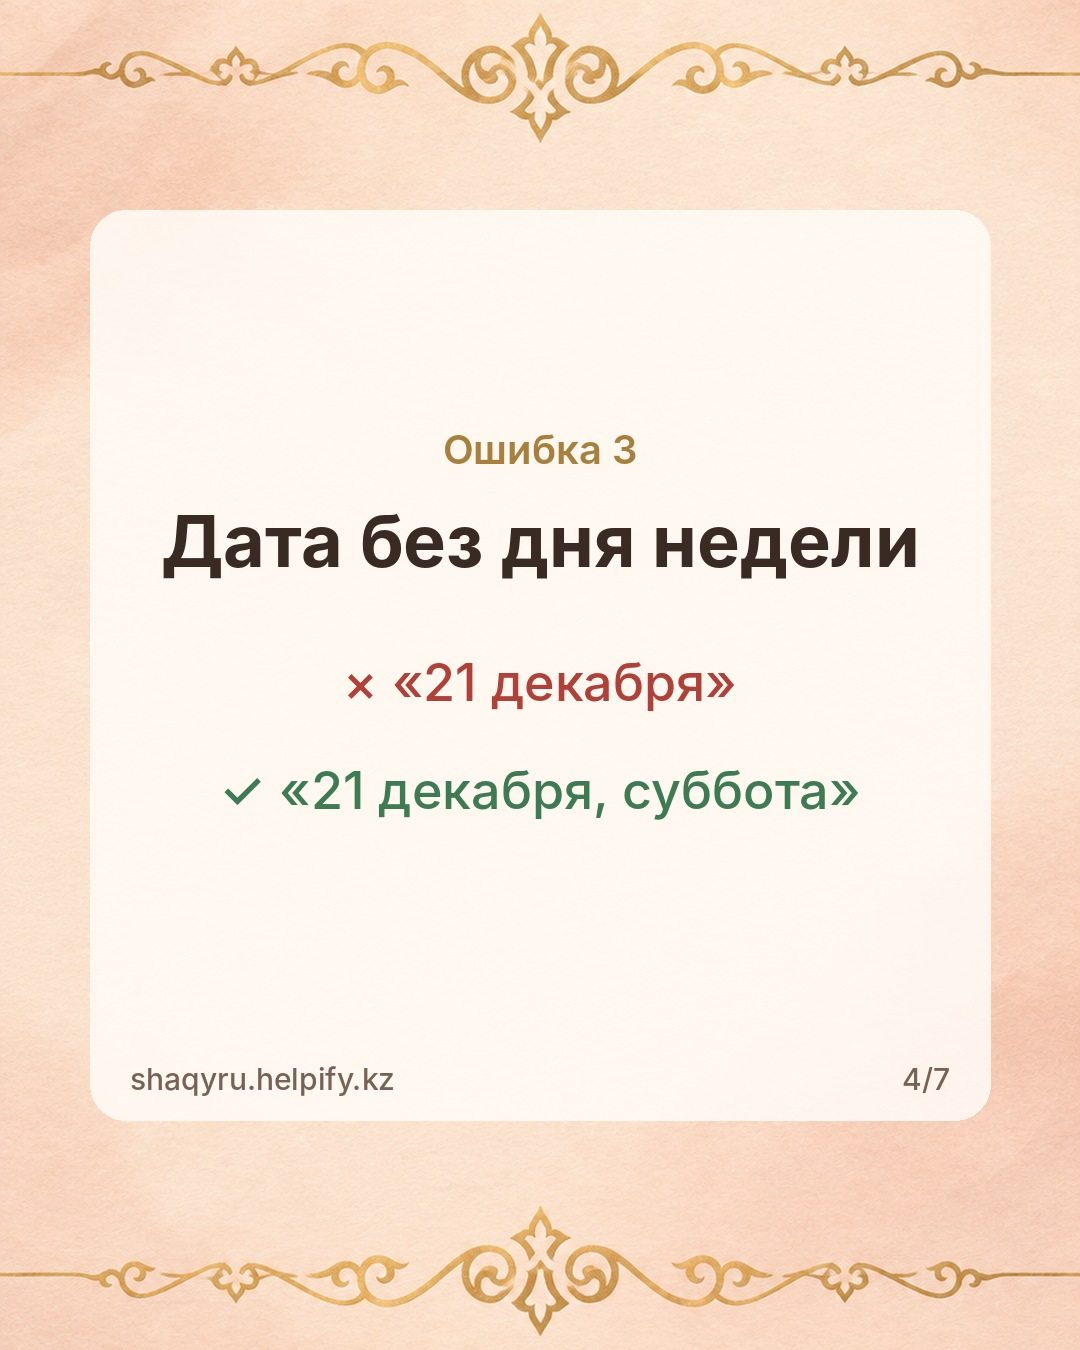
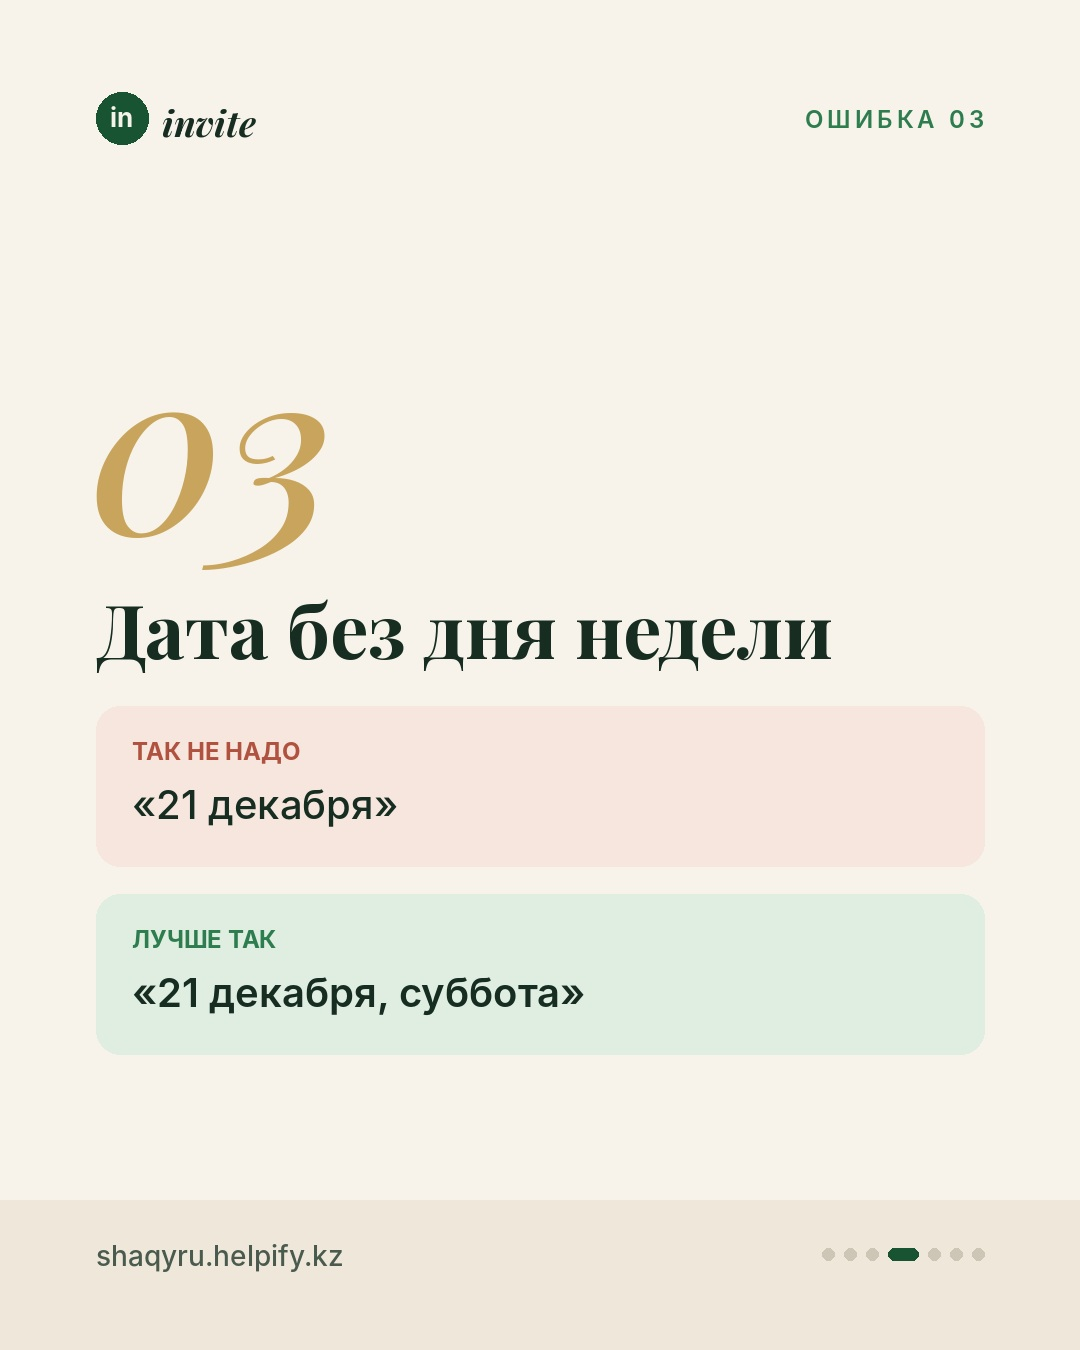
content: IG carousels in brand style (green/cream/gold, Playfair+Inter)
Claude-Session: https://claude.ai/code/session_01FxMCoqHYXWbbU2cENtnmo7

diff --git a/content/brand/make3.py b/content/brand/make3.py
@@ -1,0 +1,98 @@
+import sys
+sys.path.insert(0, '/home/claude/carousel')
+from brand import *
+
+OUT = '/home/claude/carousel/out3'
+TOP, BOT = 200, H - 170
+
+def centered(make_bg, n, total, dark, label, body, path):
+    probe = ImageDraw.Draw(Image.new('RGB', (W, H)))
+    h = body(probe, 0)
+    img = make_bg(); d = chrome(img, n, total, dark, label)
+    body(d, TOP + (BOT - TOP - h) / 2)
+    save(img, path)
+
+def box(d, y, label, s, fill, lc, weight):
+    f = it(40, weight)
+    lines = len(wrap(d, s, f, 800))
+    hgt = 74 + lines * 52 + 34
+    d.rounded_rectangle((96, y, W - 96, y + hgt), radius=24, fill=fill)
+    d.text((132, y + 30), label, font=it(24, 'Bold'), fill=lc)
+    text(d, (132, y + 74), s, f, INK, maxw=800, lh=1.3)
+    return y + hgt
+
+
+
+def cover(parts, sub, cta, n, total, label, path):
+    def body(d, y):
+        ornament(d, W // 2, y + 10, GOLD); y += 70
+        y = rich(d, (100, y), parts, maxw=880, align='center', lh=1.12) + 30
+        y = text(d, (150, y), sub, it(40, 'Regular'), (214, 226, 216), maxw=780, align='center', lh=1.4) + 60
+        f = it(34, 'SemiBold'); tw = d.textlength(cta, font=f); x = (W - tw) / 2
+        d.rounded_rectangle((x - 40, y, x + tw + 40, y + 84), radius=42, fill=CREAM)
+        d.text((x, y + 21), cta, font=f, fill=GREEN_D)
+        return y + 84
+    centered(bg_dark, n, total, True, label, body, path)
+
+
+def mistake(num, title, bad, good, n, total, path):
+    def body(d, y):
+        d.text((90, y - 40), num, font=pf(230, 500, True), fill=GOLD); y += 250
+        y = rich(d, (96, y), [(title, pf(76, 700), INK)], maxw=880) + 40
+        y = box(d, y, 'ТАК НЕ НАДО', bad, (246, 230, 222), RED, 'Medium') + 28
+        return box(d, y, 'ЛУЧШЕ ТАК', good, (224, 238, 226), GREEN_A, 'SemiBold')
+    centered(bg_light, n, total, False, 'ОШИБКА ' + num, body, path)
+
+
+def template(event, txt, n, total, path):
+    def body(d, y):
+        y = rich(d, (96, y), [(event, pf(92, 700), INK)], maxw=888)
+        d.line((96, y + 34, 260, y + 34), fill=GOLD, width=3); y += 100
+        d.text((78, y - 50), '«', font=pf(180, 600), fill=(226, 214, 186))
+        y = text(d, (130, y + 10), txt, pf(44, 500), INK, maxw=850, lh=1.45) + 40
+        d.text((130, y), 'Той иелері: [есімдер]', font=it(34, 'SemiBold'), fill=GREEN_A)
+        return y + 40
+    centered(bg_light, n, total, False, 'ДАЙЫН ҮЛГІ', body, path)
+
+
+def cta(parts, bullets, button, n, total, label, path):
+    def body(d, y):
+        y = rich(d, (100, y), parts, maxw=880, align='center', lh=1.12) + 50
+        for b in bullets:
+            d.ellipse((170, y + 6, 214, y + 50), fill=GOLD)
+            d.line((181, y + 28, 190, y + 37), fill=GREEN_D, width=5)
+            d.line((190, y + 37, 204, y + 19), fill=GREEN_D, width=5)
+            y = text(d, (240, y + 2), b, it(40, 'Medium'), CREAM, maxw=680, lh=1.3) + 26
+        y += 30
+        f = it(34, 'SemiBold'); tw = d.textlength(button, font=f); x = (W - tw) / 2
+        d.rounded_rectangle((x - 44, y, x + tw + 44, y + 88), radius=44, fill=GOLD)
+        d.text((x, y + 23), button, font=f, fill=GREEN_D)
+        return y + 88
+    centered(bg_dark, n, total, True, label, body, path)
+
+
+# ---------- карусель 1: 5 ошибок (RU) ----------
+T = 7; P = OUT + '/oshibki/slide{}.jpg'; L = 'ПРИГЛАШЕНИЯ'
+cover([('5 ошибок', pf(120, 800), CREAM), ('\n', pf(10), CREAM), ('в приглашении', pf(96, 500, True), GOLD_L)],
+      'из-за которых гости звонят вам прямо в день тоя', 'Проверьте свой текст  →', 1, T, L, P.format(1))
+mistake('01', 'Время «вечером»', '«Начало вечером»', '«Сбор гостей в 18:00, начало в 18:30»', 2, T, P.format(2))
+mistake('02', 'Ресторан без адреса', '«Ресторан Айсулу»', 'Название + адрес + метка в 2ГИС', 3, T, P.format(3))
+mistake('03', 'Дата без дня недели', '«21 декабря»', '«21 декабря, суббота»', 4, T, P.format(4))
+mistake('04', 'Нет контакта', 'Гость не знает, кому звонить', 'Номер той иесі или того, кто отвечает за гостей', 5, T, P.format(5))
+mistake('05', 'Не просите ответа', 'Сколько придёт — сюрприз', '«Подтвердите, пожалуйста, до 10 декабря»', 6, T, P.format(6))
+cta([('В шақыру всё это', pf(78, 700), CREAM), ('\n', pf(10), CREAM), ('уже есть', pf(78, 500, True), GOLD_L)],
+    ['Точное время и карта до зала', 'Кнопка «приду / не приду»', 'Список гостей для рассадки', 'Готово в тот же день'],
+    'Ссылка в профиле', 7, T, L, P.format(7))
+
+# ---------- карусель 2: шақыру мәтіні (KZ) ----------
+T = 6; P = OUT + '/matin/slide{}.jpg'; L = 'ШАҚЫРУ'
+cover([('Шақыру', pf(130, 800), CREAM), ('\n', pf(10), CREAM), ('мәтіні', pf(110, 500, True), GOLD_L)],
+      '4 тойға дайын үлгі — көшіріп алып, есімді қойыңыз', 'Сақтап қойыңыз', 1, T, L, P.format(1))
+template('Қыз ұзату', 'Құрметті ағайын-туыс, құда-жекжат, дос-жарандар! Сіздерді аяулы қызымыз [есімі] ұзату тойына арналған салтанатты ақ дастарханымыздың қадірлі қонағы болуға шақырамыз!', 2, T, P.format(2))
+template('Сүндет той', 'Құрметті ағайын-туыс, құда-жекжат, дос-жарандар! Сіздерді ұлымыз [есімі] сүндет тойына арналған салтанатты ақ дастарханымыздың қадірлі қонағы болуға шақырамыз!', 3, T, P.format(3))
+template('Тұсаукесер', 'Құрметті ағайын-туыс, дос-жарандар! Сіздерді аяулы ұлымыз (қызымыз) [есімі] тұсаукесер тойына арналған ақ дастарханымыздың қадірлі қонағы болуға шақырамыз!', 4, T, P.format(4))
+template('Мерейтой', 'Құрметті ағайын-туыс, дос-жарандар! Сіздерді анамыз [есімі] 60 жасқа толу мерейтойына арналған салтанатты ақ дастарханымыздың қадірлі қонағы болуға шақырамыз!', 5, T, P.format(5))
+cta([('Мәтін дайын —', pf(76, 700), CREAM), ('\n', pf(10), CREAM), ('енді әдемілейік', pf(76, 500, True), GOLD_L)],
+    ['Фото, музыка, 2ГИС картасы', '«Келемін / келе алмаймын» түймесі', 'Сол күні дайын', 'Төлем — көрген соң'],
+    'Сілтеме профильде', 6, T, L, P.format(6))
+print('ok')

diff --git a/content/brand/brand.py b/content/brand/brand.py
@@ -1,0 +1,154 @@
+"""invite / shaqyru — брендовый рендерер слайдов 1080x1350 для Instagram.
+Палитра под профиль @invite.helpify: глубокий зелёный + кремовый + золото.
+Шрифты: Playfair Display (заголовки, курсив-акцент), Inter (текст)."""
+import os
+from PIL import Image, ImageDraw, ImageFont, ImageFilter
+
+W, H = 1080, 1350
+FD = '/home/claude/fonts/'
+FI = '/usr/share/fonts/opentype/inter/'
+
+# палитра
+GREEN_D = (13, 52, 32)      # #0D3420
+GREEN = (24, 84, 50)        # #185432
+GREEN_A = (46, 125, 79)     # #2E7D4F акцент на светлом
+MINT = (205, 239, 211)      # #CDEFD3 (как лого)
+CREAM = (247, 243, 234)     # #F7F3EA
+CREAM_2 = (239, 232, 218)
+INK = (23, 45, 33)          # #172D21
+BODY = (74, 90, 79)         # #4A5A4F
+GOLD = (201, 164, 92)       # #C9A45C
+GOLD_L = (222, 196, 140)
+RED = (176, 82, 63)         # #B0523F
+
+_cache = {}
+def pf(size, w=700, italic=False):
+    k = ('pf', size, w, italic)
+    if k not in _cache:
+        f = ImageFont.truetype(FD + ('PlayfairDisplay-Italic.ttf' if italic else 'PlayfairDisplay.ttf'), size)
+        f.set_variation_by_axes([w]); _cache[k] = f
+    return _cache[k]
+
+def it(size, w='Medium'):
+    k = ('in', size, w)
+    if k not in _cache: _cache[k] = ImageFont.truetype(FI + f'Inter-{w}.otf', size)
+    return _cache[k]
+
+
+def wrap(d, text, f, maxw):
+    out = []
+    for para in text.split('\n'):
+        cur = ''
+        for w in para.split(' '):
+            t = (cur + ' ' + w).strip()
+            if d.textlength(t, font=f) <= maxw or not cur: cur = t
+            else: out.append(cur); cur = w
+        out.append(cur)
+    return out
+
+
+def text(d, xy, s, f, fill, maxw=880, lh=1.25, align='left', tracking=0):
+    x, y = xy
+    for ln in wrap(d, s, f, maxw):
+        if tracking:
+            tw = sum(d.textlength(c, font=f) + tracking for c in ln) - tracking
+            cx = x + (maxw - tw) / 2 if align == 'center' else x
+            for c in ln:
+                d.text((cx, y), c, font=f, fill=fill); cx += d.textlength(c, font=f) + tracking
+        else:
+            tw = d.textlength(ln, font=f)
+            cx = x + (maxw - tw) / 2 if align == 'center' else x
+            d.text((cx, y), ln, font=f, fill=fill)
+        y += f.size * lh
+    return y
+
+
+def rich(d, xy, parts, maxw=880, lh=1.18, align='left'):
+    """заголовок из кусков [(текст, font, цвет)] с переносом по словам"""
+    words = []
+    for s, f, c in parts:
+        for i, w in enumerate(s.split(' ')):
+            if w == '\n': words.append(('\n', f, c)); continue
+            words.append((w, f, c))
+    lines, cur, curw = [], [], 0
+    for w, f, c in words:
+        if w == '\n': lines.append(cur); cur, curw = [], 0; continue
+        sw = d.textlength(' ', font=f) if cur else 0
+        ww = d.textlength(w, font=f)
+        if cur and curw + sw + ww > maxw:
+            lines.append(cur); cur, curw, sw = [], 0, 0
+        cur.append((w, f, c, sw)); curw += sw + ww
+    if cur: lines.append(cur)
+    x0, y = xy
+    for ln in lines:
+        lw = sum(sw + d.textlength(w, font=f) for w, f, c, sw in ln)
+        x = x0 + (maxw - lw) / 2 if align == 'center' else x0
+        size = max(f.size for _, f, _, _ in ln)
+        for w, f, c, sw in ln:
+            x += sw
+            d.text((x, y + (size - f.size) * 0.8), w, font=f, fill=c)
+            x += d.textlength(w, font=f)
+        y += size * lh
+    return y
+
+
+def bg_dark():
+    img = Image.new('RGB', (W, H), GREEN_D)
+    # мягкое свечение
+    glow = Image.new('RGB', (W, H), GREEN_D)
+    g = ImageDraw.Draw(glow)
+    g.ellipse((-200, -300, W + 300, 900), fill=GREEN)
+    glow = glow.filter(ImageFilter.GaussianBlur(220))
+    img = Image.blend(img, glow, 0.9)
+    d = ImageDraw.Draw(img)
+    d.rounded_rectangle((44, 44, W - 44, H - 44), radius=28, outline=GOLD + (0,), width=2)
+    return img
+
+
+def bg_light():
+    img = Image.new('RGB', (W, H), CREAM)
+    d = ImageDraw.Draw(img)
+    d.rectangle((0, H - 150, W, H), fill=CREAM_2)
+    return img
+
+
+def ornament(d, cx, y, color, w=160):
+    d.line((cx - w, y, cx - 16, y), fill=color, width=2)
+    d.line((cx + 16, y, cx + w, y), fill=color, width=2)
+    d.polygon([(cx, y - 9), (cx + 9, y), (cx, y + 9), (cx - 9, y)], fill=color)
+
+
+def logo(d, x, y, dark):
+    r = 26
+    d.ellipse((x, y, x + 2 * r, y + 2 * r), fill=MINT if dark else GREEN)
+    f = it(26, 'Bold')
+    t = 'in'; tw = d.textlength(t, font=f)
+    d.text((x + r - tw / 2, y + r - 17), t, font=f, fill=GREEN_D if dark else CREAM)
+    d.text((x + 2 * r + 14, y + 6), 'invite', font=pf(36, 700, True), fill=CREAM if dark else INK)
+
+
+def chrome(img, n, total, dark, label):
+    d = ImageDraw.Draw(img)
+    logo(d, 96, 92, dark)
+    lab_f = it(24, 'SemiBold')
+    lw = sum(d.textlength(c, font=lab_f) + 4 for c in label) - 4
+    text(d, (W - 96 - lw, 104), label, lab_f, GOLD if dark else GREEN_A, maxw=lw + 2, tracking=4)
+    # низ
+    fy = H - 112
+    d.text((96, fy), 'shaqyru.helpify.kz', font=it(28, 'Medium'), fill=GOLD_L if dark else BODY)
+    # точки прогресса
+    dot_w, gap = 12, 10
+    x = W - 96 - total * dot_w - (total - 1) * gap - 18
+    for i in range(1, total + 1):
+        c = (GOLD if dark else GREEN) if i == n else ((60, 100, 75) if dark else (205, 198, 182))
+        if i == n:
+            d.rounded_rectangle((x, fy + 10, x + dot_w + 18, fy + 10 + dot_w), radius=6, fill=c); x += 18
+        else:
+            d.ellipse((x, fy + 10, x + dot_w, fy + 10 + dot_w), fill=c)
+        x += dot_w + gap
+    return d
+
+
+def save(img, path):
+    os.makedirs(os.path.dirname(path), exist_ok=True)
+    img.save(path, quality=94)
